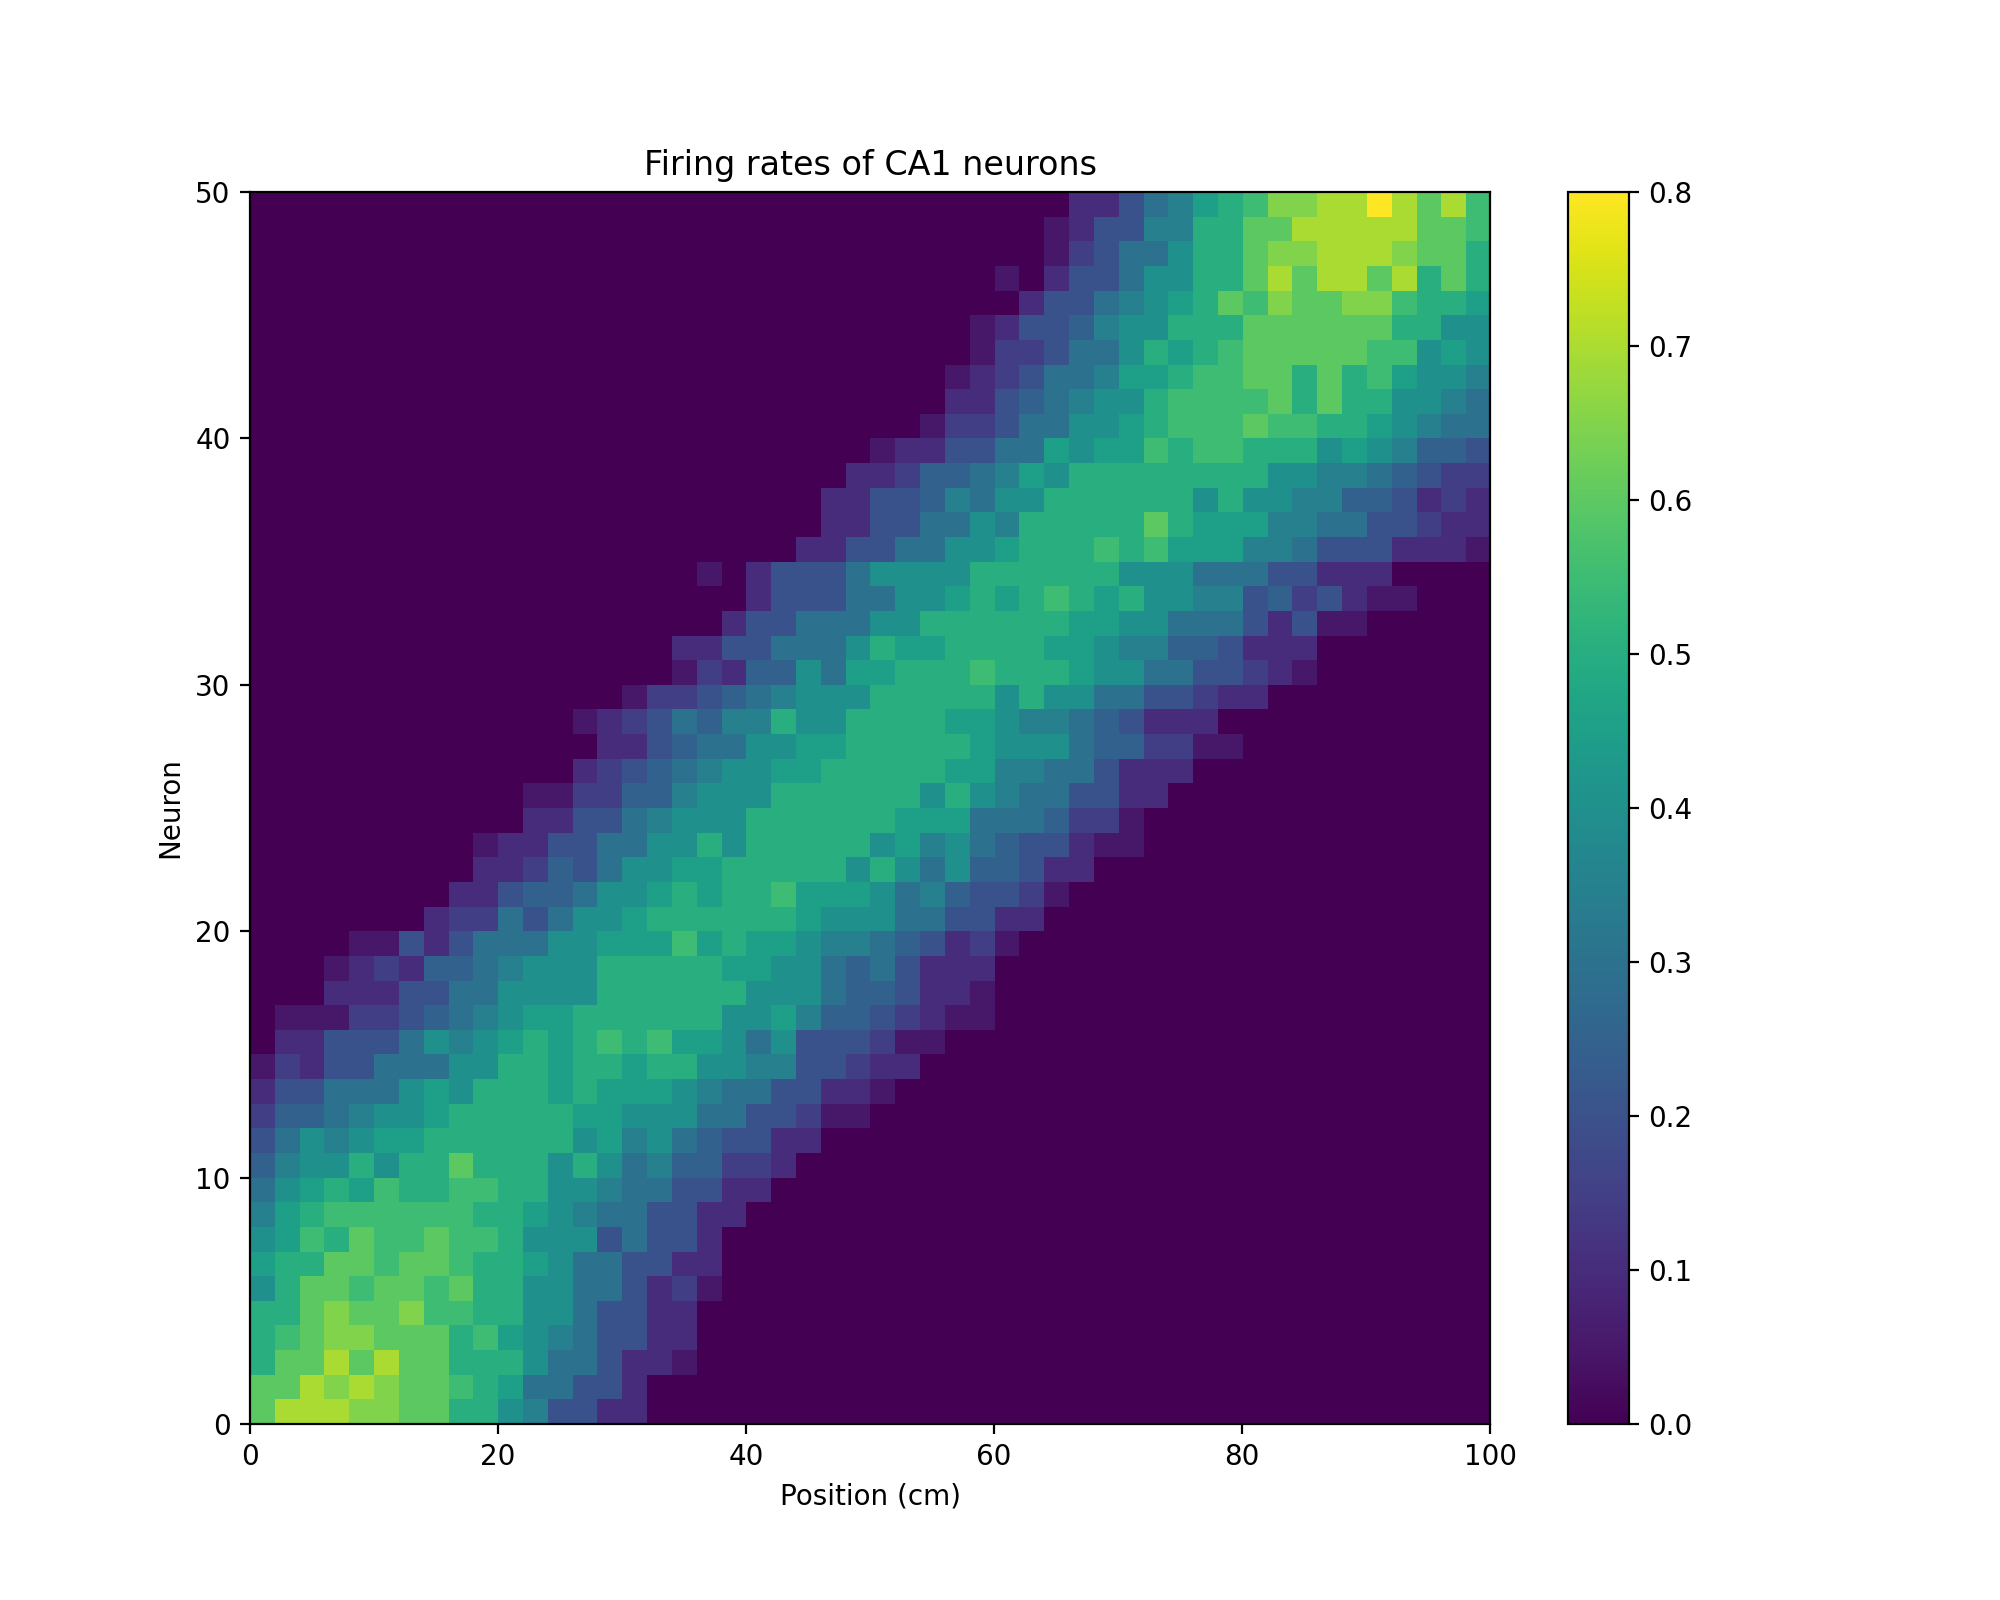
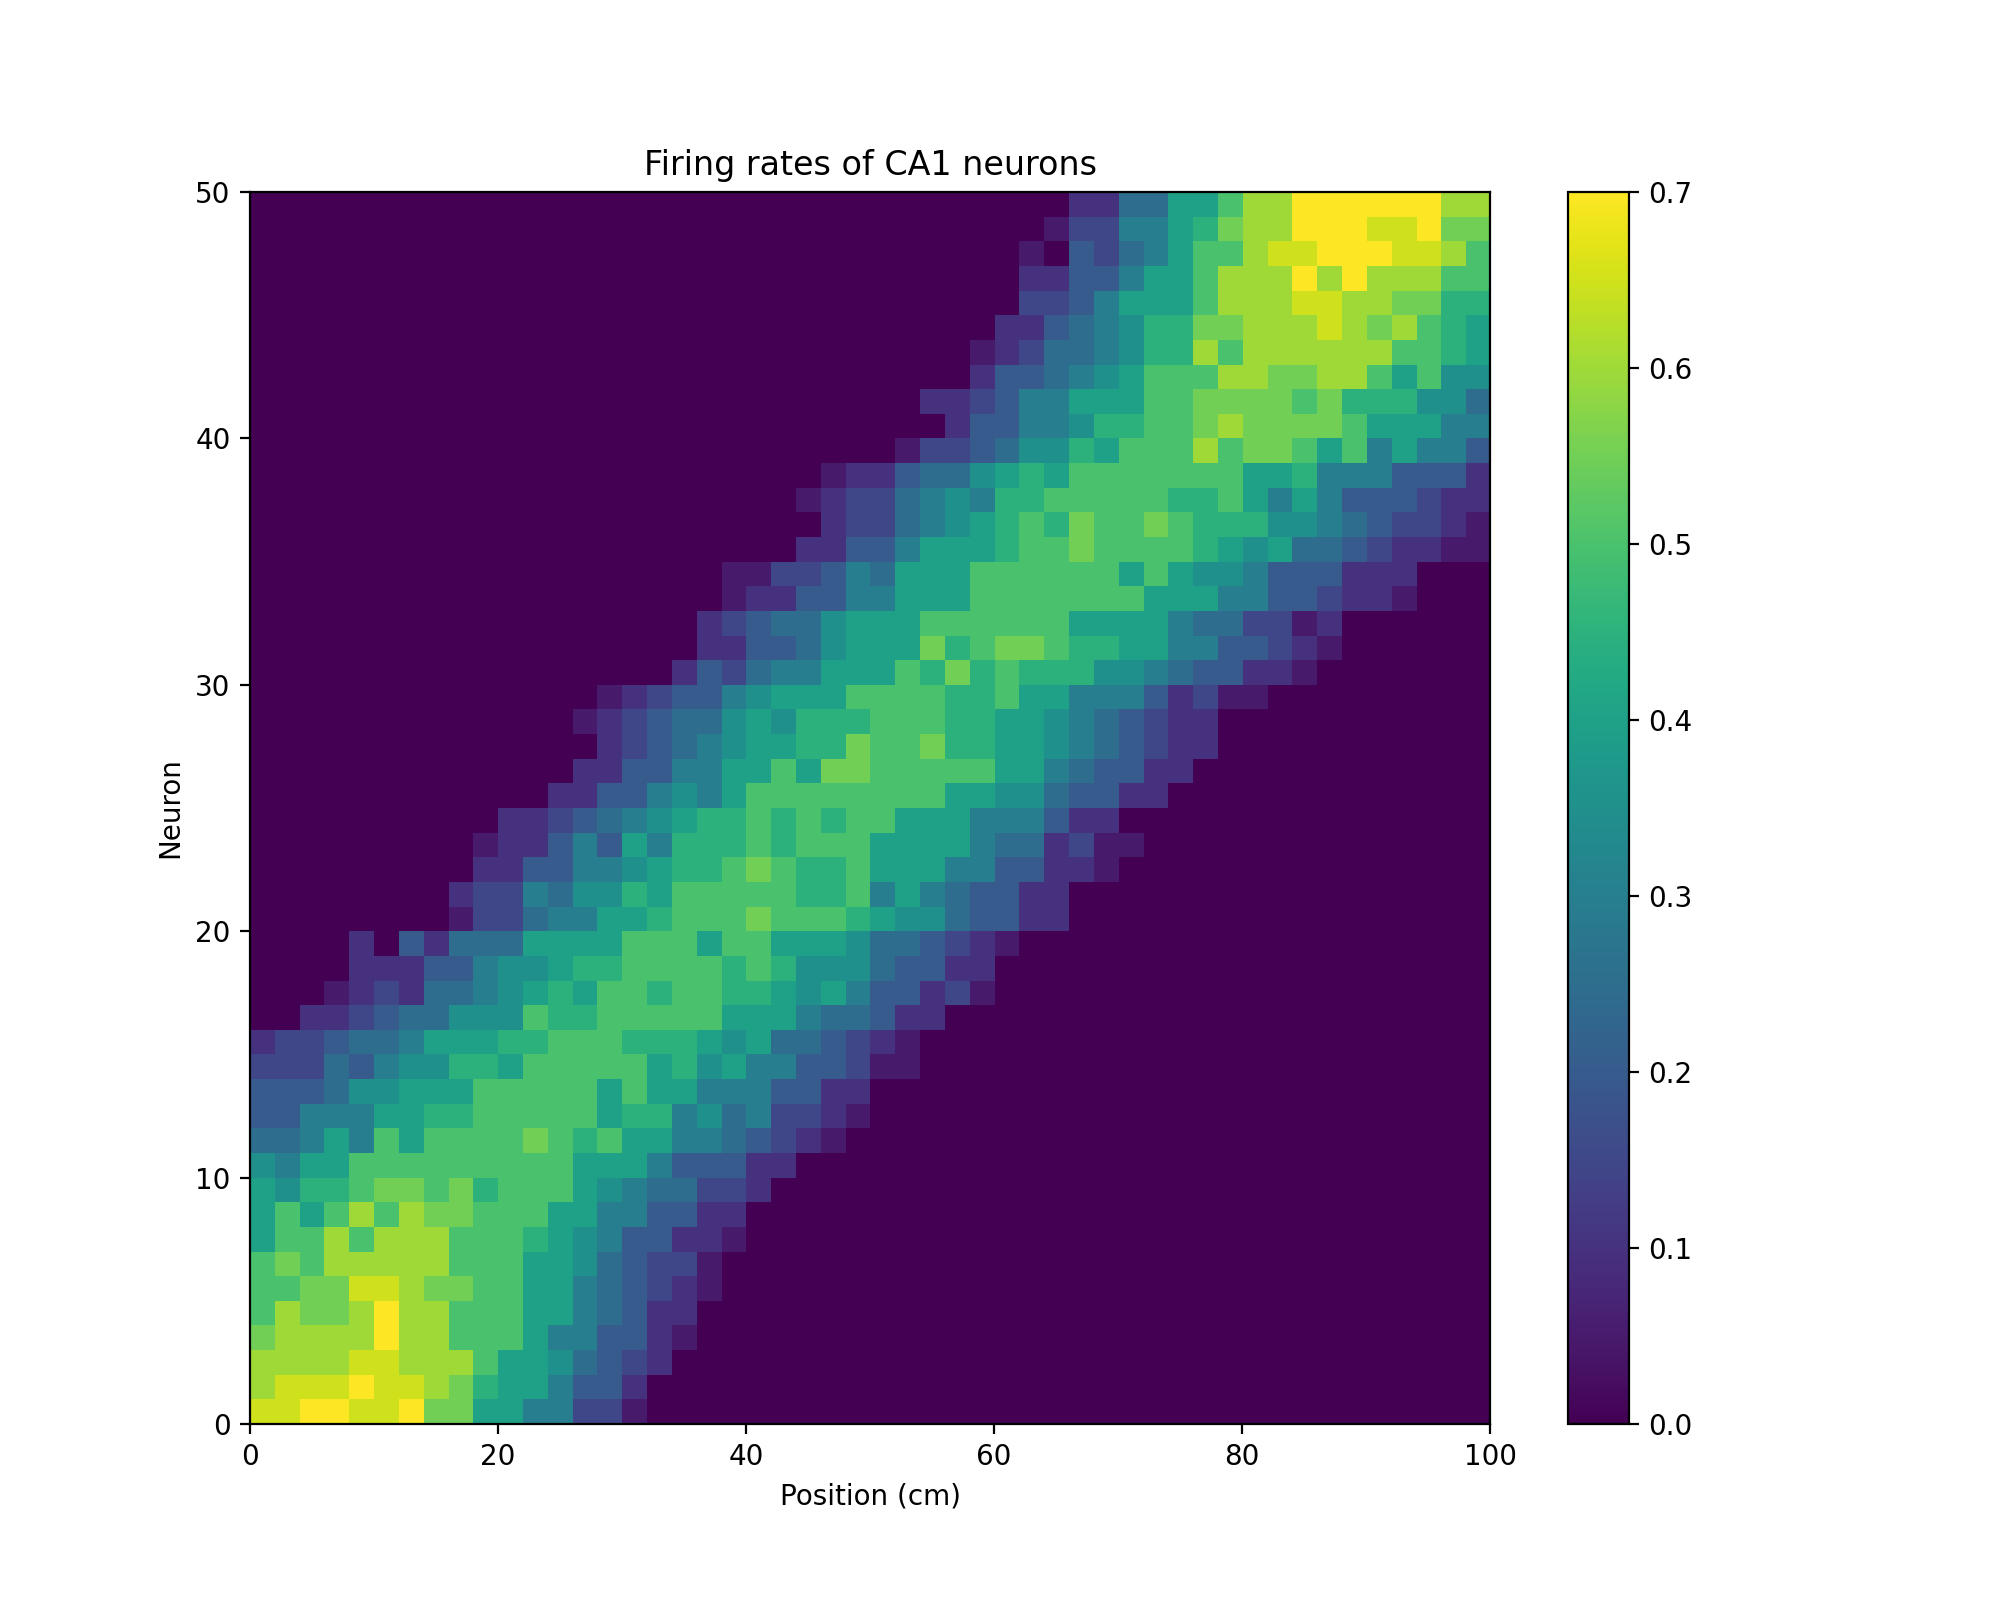
Added place input plots

Changed region(s): [[0.124, 0.0938, 0.744, 0.9062], [0.155, 0.5625, 0.186, 0.5938]]

diff --git a/place_inputs.py b/place_inputs.py
@@ -71,7 +71,7 @@ def correlate_firing_rates(fr_old, fr_new):
     for i in range(fr_old.shape[1]):
         cor_col[i] = pearsonr(fr_old[:, i], fr_new[:, i])[0]
  
-    return np.mean(cor_row), np.mean(cor_col)
+    return np.nanmean(cor_row), np.nanmean(cor_col)
 
 
 def plot_firing_rates(firing_rates, m_EC, out):
@@ -89,7 +89,7 @@ def plot_firing_rates(firing_rates, m_EC, out):
     extent = [0, 100, 0, mean_firing_rates.shape[0]]
     im = ax.imshow(mean_firing_rates, aspect='auto', extent=extent, origin='lower')
     fig.colorbar(im, ax=ax)
-    ax.set_title("Firing rates of CA1 neurons")
+    ax.set_title(f"Firing rates of {'CA1' if not out.startswith('CA3') else 'CA3'} neurons")
     ax.set_xlabel("Position (cm)")
     ax.set_ylabel("Neuron")
     plt.savefig(f'plots/firing_rates_{out}.png')
@@ -123,52 +123,102 @@ def plot_weights(W, m_CA3, m_EC):
     plt.close()
 
 
+def plot_correlations(A, cors_col, cors_row):
+
+    cors = {"columns": cors_col, "rows": cors_row}
+    fig, axs = plt.subplots(1, 2, figsize = (12,6), dpi = 400, sharey=True)
+    axs[0].set_ylabel('Average correlation')
+
+    for i, (cor_name, cor) in enumerate(cors.items()):
+
+        mean_cor = np.nanmean(cor, axis = 2)
+        std_cor = np.nanstd(cor, axis = 2)
+        print(cor_name)
+        print('mean', mean_cor, 'std', std_cor)
+
+        lower, upper = mean_cor - std_cor, mean_cor + std_cor
+
+        axs[i].plot(A, mean_cor, label = ['CA1', 'CA3'])
+        axs[i].fill_between(A, lower[:, 0], upper[:, 0], alpha=0.3)
+        axs[i].fill_between(A, lower[:, 1], upper[:, 1], alpha=0.3)
+        axs[i].set_title(f'Average correlation over {cor_name}')
+        axs[i].set_xlabel('Similarity between environments')
+        axs[i].legend()
+
+    plt.tight_layout()
+    plt.savefig('plots/correlation_unf_fam.png')
+    plt.close()
+
+
 def main():
+    np.random.seed(0)
 
     # Setting the simulation time parameters 
     n_cells = {'pyramidal' : 50, 'inter_a' : 5, 'inter_b' : 5, 'CA3' : 30}
     len_track = 100. 
-    tn = 1000
+    tn = 4000
     av_running_speed = .2 # 0.2
     dt = 0.01
     max_runs = int(tn/20)
     t_epoch = 50
     lr = .001 # 0.001
-    
-
-    pyramidal = PyramidalCells(n_cells, weights = dict(), learning_rate = lr)
-    
-    t_run, x_run = simulate_run(len_track, max_runs, av_running_speed, dt, tn)
-    
-    pyramidal.learn_place_cells(t_run, x_run, t_epoch, dt)
-    plot_weights(pyramidal.W_CA3, pyramidal.m_CA3, pyramidal.m_EC)
-    
-    plot_track_CA3(t_run, x_run, pyramidal.CA3_act)
 
     tn_retrieval = 1000
     max_runs_rt = int(tn_retrieval/20)
 
+    A = np.round(np.arange(0,1.1,0.5),1)
+    N_simulations = 2
+    cors_col_all, cors_row_all = np.zeros((len(A), 2, N_simulations)), np.zeros((len(A), 2, N_simulations))
+
+    t_run, x_run = simulate_run(len_track, max_runs, av_running_speed, dt, tn)
     t_run2, x_run2 = simulate_run(len_track, max_runs_rt, av_running_speed, dt, tn_retrieval)
     
-    event_count = pyramidal.retrieve_place_cells(t_run2, x_run2, dt, new_env=False)
-    fr_old = get_firing_rates(pyramidal, event_count, delta_t = 10)
+    for sim in range(N_simulations):
+        pyramidal = PyramidalCells(n_cells, weights = dict(), learning_rate = lr)
+        pyramidal.learn_place_cells(t_run, x_run, t_epoch, dt)
+        # plot_weights(pyramidal.W_CA3, pyramidal.m_CA3, pyramidal.m_EC) 
+        # plot_track_CA3(t_run, x_run, pyramidal.CA3_act)
 
-    print(pyramidal.CA3_act)
-    print(pyramidal.CA3_act.shape)
-    print(pyramidal.m_CA3)
-    plot_firing_rates(pyramidal.CA3_act, pyramidal.m_CA3, out = 'CA3_test')
-    quit()
+        ## Retrieval familiar environment
+        event_count = pyramidal.retrieve_place_cells(t_run2, x_run2, dt, new_env=False)
+        fr_old = get_firing_rates(pyramidal, event_count, delta_t = 10)
 
-    plot_firing_rates(fr_old, pyramidal.m_EC, out = 'old_env')
+        m_CA3_old = pyramidal.m_CA3
+        CA3_act_old = pyramidal.CA3_act.copy()
+        # plot_firing_rates(pyramidal.CA3_act, m_CA3_old, out = 'CA3_old_env')
+        # plot_firing_rates(fr_old, pyramidal.m_EC, out = 'old_env')
 
-    event_count = pyramidal.retrieve_place_cells(t_run2, x_run2, dt, new_env=True)
-    fr_new = get_firing_rates(pyramidal, event_count, delta_t = 10)
+        cors_col = np.zeros((len(A), 2))
+        cors_row = np.zeros((len(A), 2))
+        for i, a in enumerate(A):
+            print("a =", a)
+            
+            ## Retrieval new environment
+            event_count = pyramidal.retrieve_place_cells(t_run2, x_run2, dt, new_env=True, a = a)
+            fr_new = get_firing_rates(pyramidal, event_count, delta_t = 10)
 
-    plot_firing_rates(fr_new, pyramidal.m_EC, out = 'new_env')
+            # plot_firing_rates(pyramidal.CA3_act, m_CA3_old, out = 'CA3_new_env')
+            # plot_firing_rates(fr_new, pyramidal.m_EC, out = 'new_env')
 
-    r_row, r_col = correlate_firing_rates(fr_old, fr_new)
-    print(r_row, r_col)
+            print('Correlation CA1')
+            r_row, r_col = correlate_firing_rates(fr_old, fr_new)
+            print(r_row, r_col)
 
+            print('Correlation CA3')
+            r_row_CA3, r_col_CA3 = correlate_firing_rates(CA3_act_old, pyramidal.CA3_act)
+            print(r_row_CA3, r_col_CA3)
+
+            cors_col[i, :] = r_col, r_col_CA3
+            cors_row[i, :] = r_row, r_row_CA3
+
+        cors_col_all[:, :, sim] = cors_col
+        cors_row_all[:, :, sim] = cors_row
+    
+    plot_correlations(A, cors_col_all, cors_row_all)
+
+
+
+    
 
 if __name__ ==  "__main__":
     main()

diff --git a/neuron.py b/neuron.py
@@ -187,7 +187,7 @@ class PyramidalCells():
         return lambda t: activity[:, int((t-t0)/dt)], m_cells, activity
     
 
-    def run_one_epoch(self, t_epoch, dt): # TODO: delete the dt as local variable
+    def run_one_epoch(self, t_epoch, dt, plasticity = True): # TODO: delete the dt as local variable
         dt = self.dt
             
         self.bursting = np.zeros(self.n_cells['pyramidal'])
@@ -230,7 +230,8 @@ class PyramidalCells():
             self.t_values.append(t_new)
 
         t_epoch = self.t_values[-1]
-        self.plasticity_step(t0, t_epoch, dt)
+        if plasticity:
+            self.plasticity_step(t0, t_epoch, dt)
         self.values = values_new
     
 
@@ -258,7 +259,7 @@ class PyramidalCells():
             self.cosine_distances.append(cosine_distance)
     
 
-    def retrieve_place_cells(self, t_run, x_run, dt, new_env = False):
+    def retrieve_place_cells(self, t_run, x_run, dt, new_env = False, a = 0):
         dt = self.dt
         t0_retrieval = self.t_values[-1]
 
@@ -270,14 +271,20 @@ class PyramidalCells():
         self.spike_count = np.concatenate([self.spike_count, np.zeros((int(round((tn) / dt)), self.n_cells['pyramidal']))])
         self.burst_count = np.concatenate([self.burst_count, np.zeros((int(round((tn) / dt)), self.n_cells['pyramidal']))])
 
-        if new_env:
-            self.I_b, self.m_CA3, self.CA3_act = self.create_activity_pc(x_run, len_track, dt, tn, self.n_cells['CA3'], m_b)
+        if not hasattr(self, 'I_b_n'):
+            self.I_b_n, self.m_CA3_n, self.CA3_act_n = self.create_activity_pc(x_run, len_track, dt, tn, self.n_cells['CA3'], m_b)
+        self.I_b_o, self.m_CA3_o, self.CA3_act_o = self.create_activity_pc(x_run, len_track, dt, tn, self.n_cells['CA3'], m_b, self.m_CA3)
+        
+        if not new_env:
+            self.I_b, self.m_CA3, self.CA3_act = self.I_b_o, self.m_CA3_o, self.CA3_act_o
         else:
-            self.I_b, self.m_CA3, self.CA3_act = self.create_activity_pc(x_run, len_track, dt, tn, self.n_cells['CA3'], m_b, self.m_CA3)
+            self.m_CA3 = self.m_CA3_o
+            self.CA3_act = (1-a)*self.CA3_act_o + a*self.CA3_act_n
+            self.I_b = lambda t: self.CA3_act[:, int((t-t0_retrieval)/dt)]  
 
         zero_top_down = np.zeros((int(round(tn/dt)+10), self.n_cells['pyramidal']))
         self.I_a = lambda t: zero_top_down[int((t-t0_retrieval)/dt), :]   
-        self.run_one_epoch(tn + t0_retrieval, dt)
+        self.run_one_epoch(tn + t0_retrieval, dt, plasticity=False)
 
         return self.spike_count[int((t0_retrieval//dt)):, :]
 
